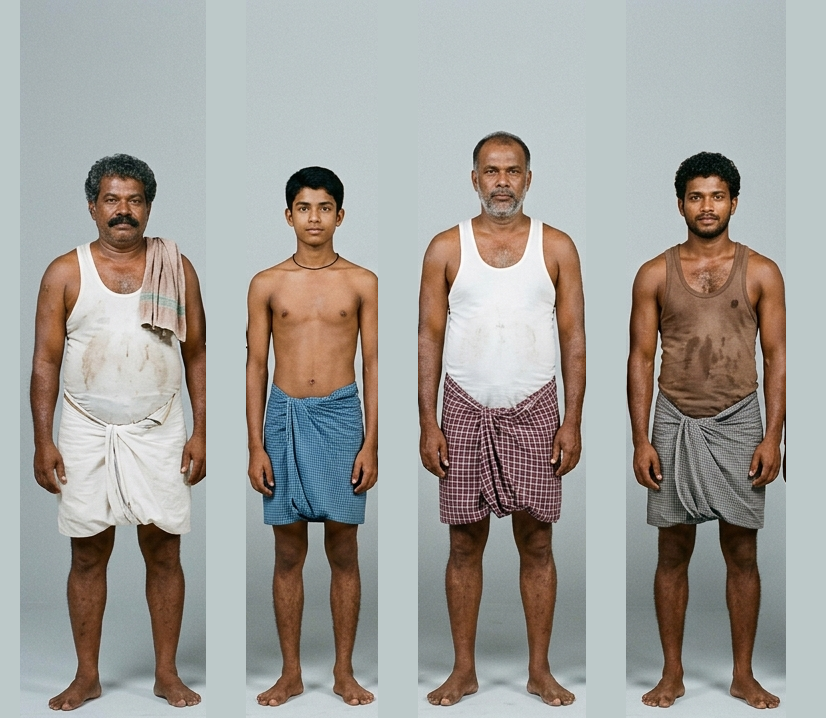
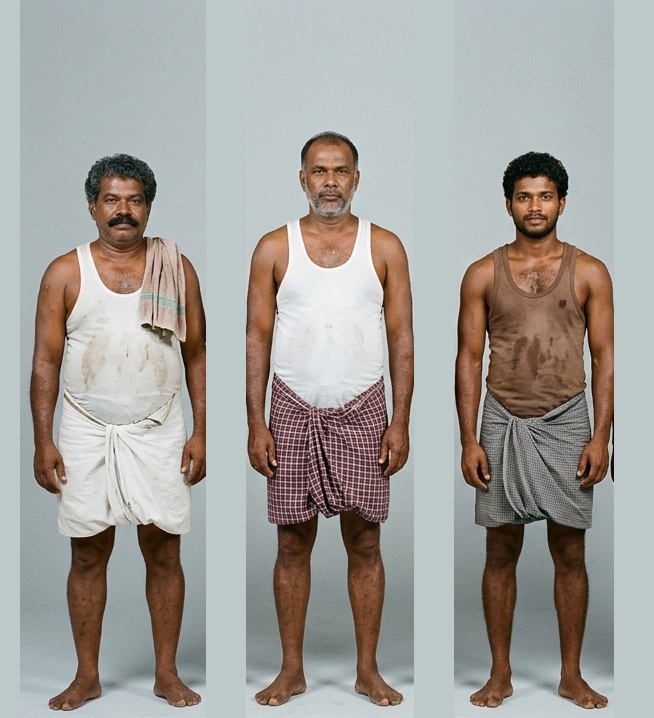
Aswanth: asset: @crewextras replaced — three men, boy removed (L93)

diff --git a/INDEX.md b/INDEX.md
@@ -21,7 +21,7 @@ Status: `approved` · `waiting for approval` · `retired`
 | `@suresh` | Crewman Suresh (@crew #5), about 30: curly hair, moustache, cream shirt sleeves rolled, green small-check mundu, red thread right wrist | Song on deck: laughing dancer | `characters/suresh/sheet.png` | Aswanth | 2026-11-06 | approved |
 | `@raghavan` | Crewman Raghavan (@crew #6), about 60: wiry, grey hair and moustache, white vest, red-and-white checked towel round the neck, white mundu | Song on deck: beats the steel plate, drinks | `characters/raghavan/sheet.png` | Aswanth | 2026-11-06 | approved |
 | `@babu` | Crewman Babu (@crew #8), about 40: heavy-set, moustache, red-and-white checked head towel, off-white half-sleeve shirt over vest, grey-brown checked lungi | Song on deck: dancer, serves the fried fish | `characters/babu/sheet.png` | Aswanth | 2026-11-06 | approved |
-| `@crewextras` | The four background crewmen without own sheets, side by side (line-up men 1, 3, 4, 7): stocky man with towel on left shoulder; the boy with black cord necklace and blue mundu; tall man with grey goatee and maroon-checked lungi; lean young man in brown vest | Any deck shot needing crew beyond the four featured men; safe with @sasi @suresh @raghavan @babu (none of them in it, L74); call each man by his look; the boy never drinks | `characters/crewextras/sheet.png` | Aswanth | 2026-11-08 | approved |
+| `@crewextras` | The three background crewmen without own sheets, side by side (line-up men 1, 4, 7): stocky man with towel on left shoulder; tall man with grey goatee and maroon-checked lungi; lean young man in brown vest. The boy (man 3) left out after a content-filter block (L93) | Any deck shot needing crew beyond the four featured men; safe with @sasi @suresh @raghavan @babu (none of them in it, L74); call each man by his look | `characters/crewextras/sheet.png` | Aswanth | 2026-11-08 | approved |
 | `@selvan` | Selvan, about 45: short greying black hair, thick moustache, light-blue/slate tiger-stripe camouflage shirt and cargo trousers, khaki webbing belt with two pouches, glass vial on a black cord, tan canvas boots | SB030–SB035: in the water by the burning vallam, rescued by Antony; in the hold with the sealed letter | `characters/selvan/sheet.jpg` | Ranjith | 2026-11-07 | approved |
 
 ## Locations

diff --git a/characters/crewextras/card.md b/characters/crewextras/card.md
@@ -1,7 +1,7 @@
 ---
 id: "@crewextras"
 type: character
-character: The uru's background crewmen (four men without their own sheets)
+character: The uru's background crewmen (three men without their own sheets)
 look: working clothes on the voyage, 1998
 created_by: Aswanth
 created: 2026-11-08
@@ -11,18 +11,17 @@ used_in: [s16b-sh05]
 continuity_score: 88
 ---
 
-# Crew extras — men 1, 3, 4 and 7 of the line-up
-Platform ID: `@crewextras` · Sheet: `sheet.png`, cut by Claude for Aswanth from `characters/crew/sheet.png` (no numbers, no featured men), four men side by side on grey, full body.
+# Crew extras — men 1, 4 and 7 of the line-up
+Platform ID: `@crewextras` · Sheet: `sheet.png`, cut by Claude for Aswanth from `characters/crew/sheet.png` (no numbers, no featured men), three men side by side on grey, full body. Replaced on 2026-11-08: the first version also showed the boy (man 3) without a shirt, and s16b-sh05 v6 was blocked by the content filter; he is left out (L93).
 
 ## Who is who (left to right) — call them by look, never by number
 1. **Stocky man**, about 45: grey-black curly hair, thick moustache; stained white cotton vest, faded towel over his LEFT shoulder, white mundu.
-2. **The boy**, about 15: slim, short black hair, black cord necklace, blue mundu, no shirt. Background or audience only; never drinking.
-3. **Tall man**, about 45: broad, receding hair, grey goatee; white cotton vest, maroon-checked lungi.
-4. **Young man**, about 25: lean and muscular, short curly hair, thin beard; brown cotton vest, grey-checked lungi.
+2. **Tall man**, about 45: broad, receding hair, grey goatee; white cotton vest, maroon-checked lungi.
+3. **Young man**, about 25: lean and muscular, short curly hair, thin beard; brown cotton vest, grey-checked lungi.
 
 ## When to attach
 - Any deck shot that needs crew beyond the four featured men. Safe WITH `@sasi`, `@suresh`, `@raghavan`, `@babu`: none of them is in this image (L74).
-- In the prompt, say which of the four are in the shot and what each does, by his look.
+- In the prompt, say which of the three are in the shot and what each does, by his look.
 
 ## Never pair with
 - `@crew` (the full line-up): it repeats everyone.

diff --git a/characters/crew/card.md b/characters/crew/card.md
@@ -29,7 +29,7 @@ Platform ID: `@crew` · Sheet: `sheet.png`, made by Aswanth (ChatGPT). Eight men
 
 ## Never pair with
 - `@sasi`, `@suresh`, `@raghavan` or `@babu` in the same generation (L74: s16b-sh02 v1 drew Babu twice even with "men 1, 4 and 7 only" written). Use @crew only for shots with none of the featured men; otherwise make own sheets for men 1, 4 and 7.
-- Man 3 is a boy: never give him alcohol, keep him in the background (image QA drift).
+- Man 3 is a boy without a shirt: keep him out of generations (L93: the image tripped the content filter); never give him alcohol.
 
 ## Voice
 Background men: non-verbal only (claps, whoops, laughter) unless a shot gives one of them a line.

diff --git a/scenes/showreel/image-qa/crewextras.md b/scenes/showreel/image-qa/crewextras.md
@@ -7,3 +7,6 @@ Compared with: characters/crew/sheet.png (men 1, 3, 4, 7)
 ⚠ the grey gaps between the men are a slightly different grey from the background (faint panel lines) — harmless for a reference
 ⚠ man 3 is a boy: background or audience only, never drinking
 ```
+
+## 2026-11-08 — replaced (three men)
+The boy (man 3) was removed after s16b-sh05 v6 was blocked by the content filter (L93). Same cuts of men 1, 4, 7, same grey gaps; score unchanged, 88.
